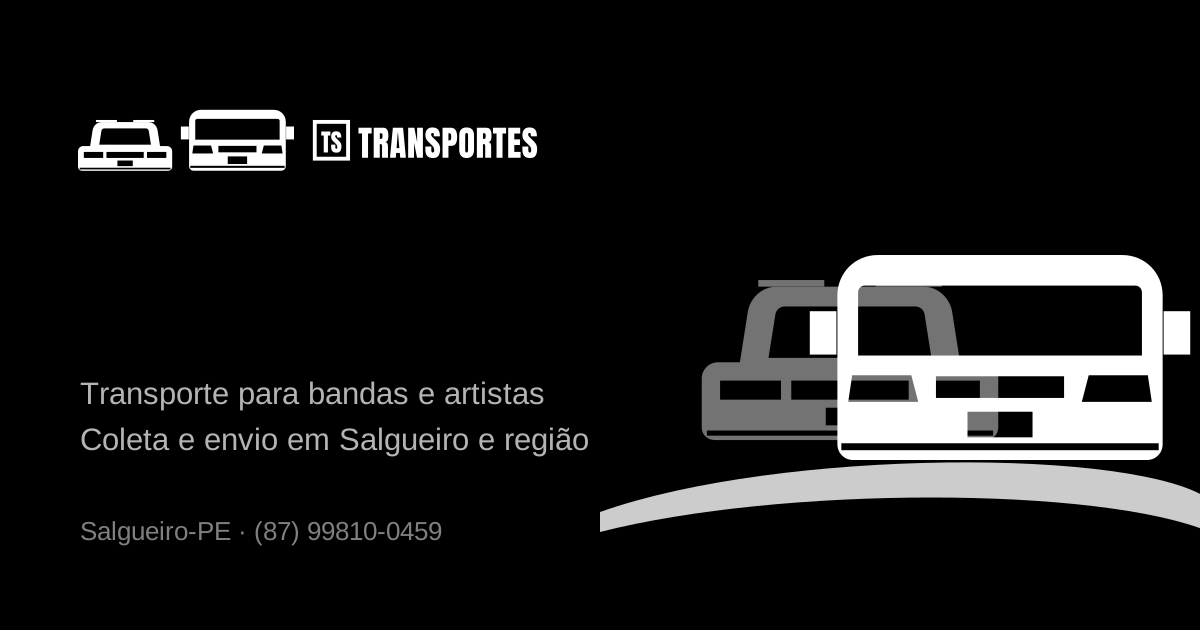
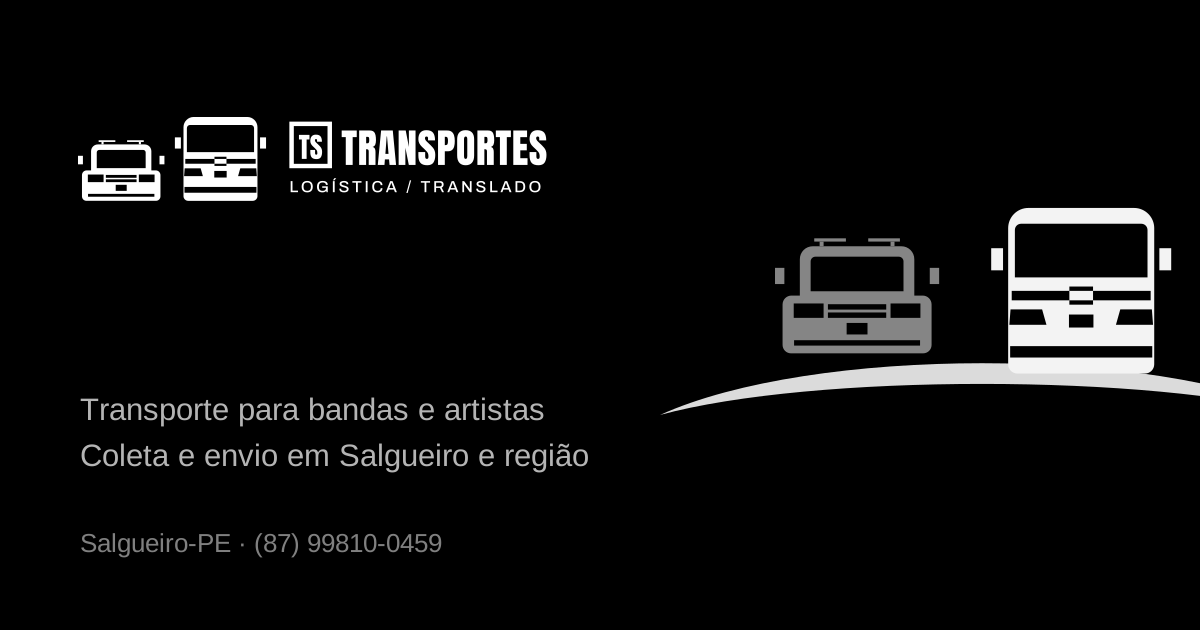
Veiculos da marca redesenhados e linha de servicos no letreiro
- A logo real traz 'LOGISTICA / TRANSLADO' embaixo do letreiro e a
  nossa nao tinha. Acrescentado nas duas orientacoes.
- Pajero e van redesenhadas no formato dos veiculos reais da TS:
  a SUV com rack, grade larga e farois quadrados; o furgao mais
  alto que largo, com faixa na frente e farois varridos. No tamanho
  de logo quem separa os dois e a proporcao, nao o detalhe.
- Cena do topo e og-image regerados com os desenhos novos.
- Seis veiculos confirmados pelo dono: numero entrou na etiqueta do
  topo e no texto da frota.
- Mantida a versao chapada no site. O cromado que o dono usa serve
  para adesivo e fachada, mas some num icone de 16px e nao funciona
  sobre fundo claro.

Claude-Session: https://claude.ai/code/session_01Fk9h2X1aQQscqrcbhgA1d8

diff --git a/components/Topo.tsx b/components/Topo.tsx
@@ -2,7 +2,7 @@ import Image from "next/image";
 import { WHATSAPP } from "@/lib/dados";
 
 // Tres fatos que resumem o negocio antes da pessoa rolar a pagina.
-const etiquetas = ["Todo o Brasil", "Raio de 250 km", "Atendimento direto"];
+const etiquetas = ["Todo o Brasil", "Raio de 250 km", "6 veículos próprios"];
 
 export default function Topo() {
   return (
@@ -53,7 +53,7 @@ export default function Topo() {
           src="/cena-veiculos.svg"
           alt="Pajero e van da TS Transportes sobre a estrada"
           width={1400}
-          height={620}
+          height={640}
           priority
         />
       </div>

diff --git a/components/Frota.tsx b/components/Frota.tsx
@@ -10,9 +10,9 @@ export default function Frota() {
       <div className="interno">
         <h2>A frota</h2>
         <p className="apoio">
-          Frota própria e identificada. Carro executivo para o artista, van
-          para a banda e os equipamentos, picape e utilitário para as
-          encomendas.
+          Seis veículos próprios e identificados. Carro executivo para o
+          artista, van para a banda e os equipamentos, picape e utilitário
+          para as encomendas.
         </p>
 
         <img

diff --git a/components/Cabecalho.tsx b/components/Cabecalho.tsx
@@ -8,9 +8,9 @@ export default function Cabecalho() {
         <Link href="/" className="marca" aria-label="TS Transportes, início">
           <Image
             src="/logo-ts-horizontal.svg"
-            alt="TS Transportes"
-            width={254}
-            height={40}
+            alt="TS Transportes — Logística e Translado"
+            width={252}
+            height={62}
             priority
           />
         </Link>

diff --git a/app/globals.css b/app/globals.css
@@ -84,13 +84,13 @@ p { margin: 0; max-width: 62ch; }
 .cabecalho-interno {
   width: var(--largura);
   margin: 0 auto;
-  min-height: 72px;
+  min-height: 80px;
   display: flex;
   align-items: center;
   gap: 24px;
 }
 
-.marca img { display: block; width: 254px; height: auto; }
+.marca img { display: block; width: 252px; height: auto; }
 
 .menu {
   display: flex;
